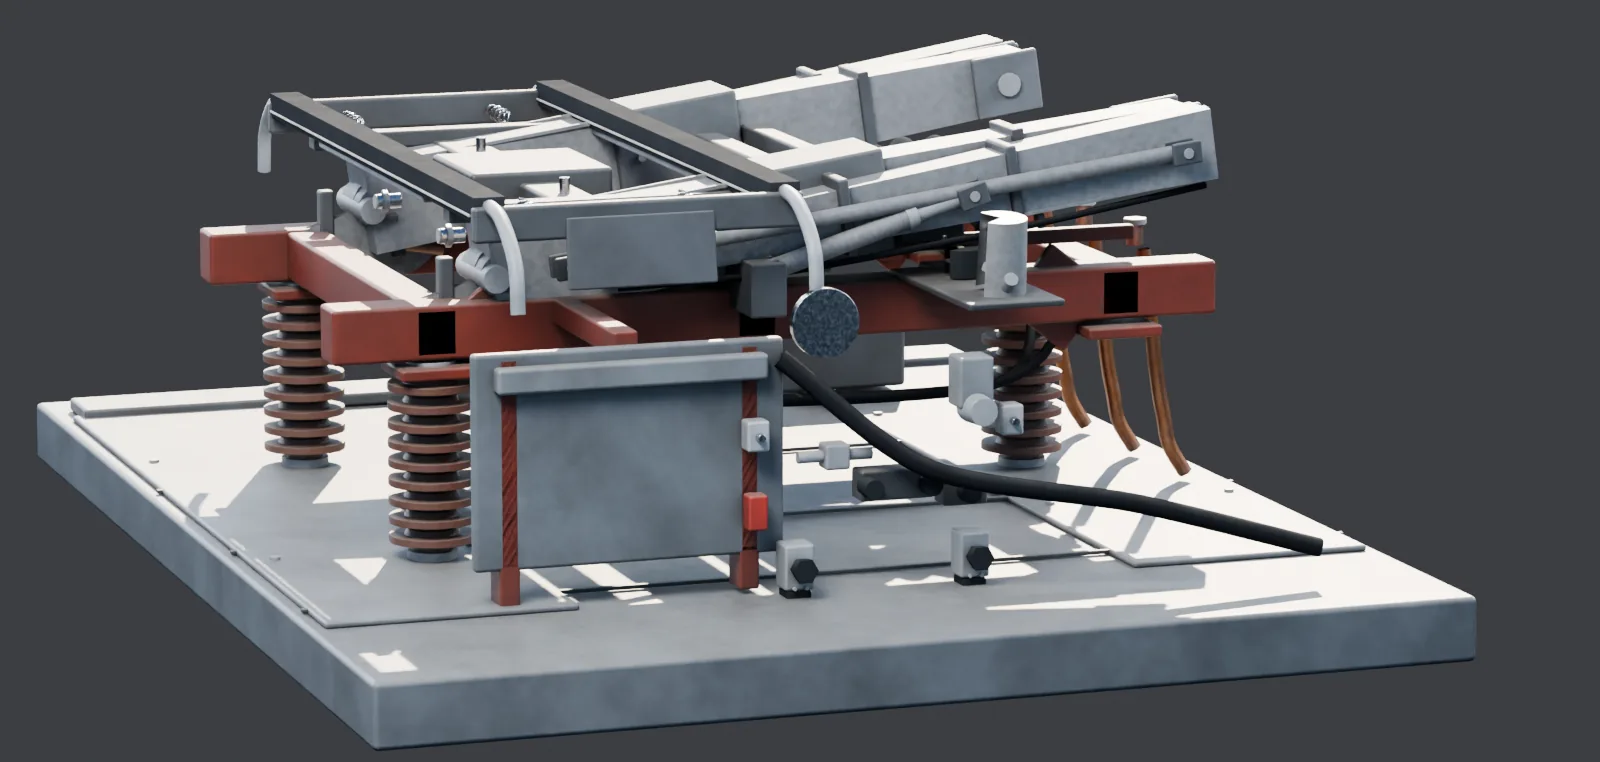
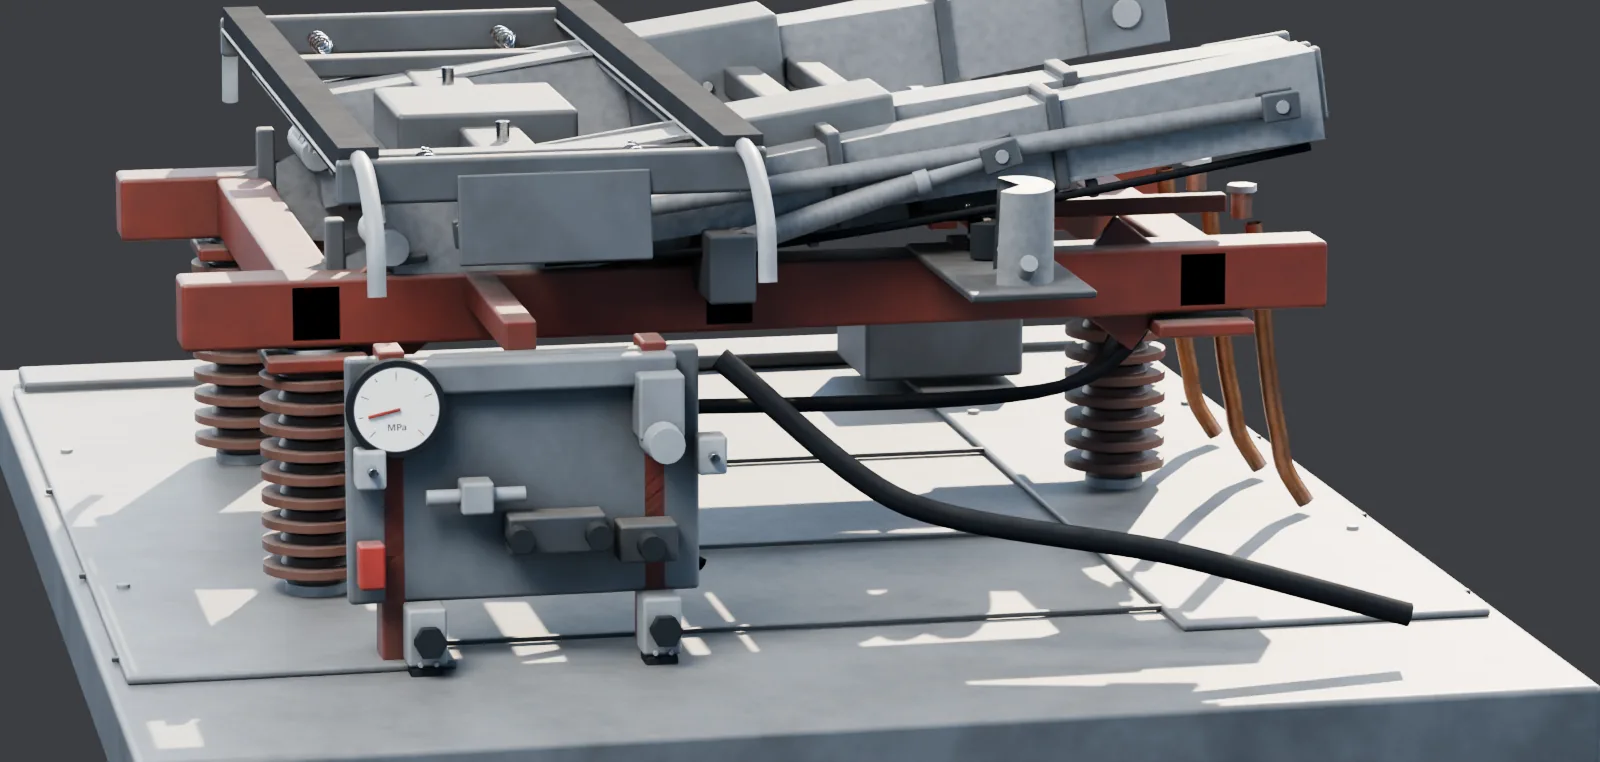
fix(a3d): 气阀板元件回到板面 + 压力表盘可读
## 上一轮的判断是错的
我写的是「元件全贴在朝内的面」。真因是**坐标**：
- 板 panelFace 的 z 中心 0.46、深 0.62 → z ∈ [0.15, 0.77]
- 11 个元件的 z 写的是 -0.30 ~ 0.22，**没加 panelZ** → 全悬在板旁边的空气里
- 两者只重叠 7cm。所以从任何角度看都只是「板边露几个小方块」。

## 修法：整组平移，不是逐个改坐标
  const panelRig = new Group()
  panelRig.position.z = panelZ + 0.02   // +0.02：左侧原本溢出 3cm
18 处 drive.add(...) 改成 panelRig.add(...)。支架 / 横撑 / 汇流排用绝对坐标，不动。
逐个加 0.46 只要漏一个，就又是一个悬空的件；整组平移是结构性的，漏不掉。

## 板收小，元件才「铺满」
板 0.62×0.42 → 0.54×0.38（11 件跨距是 z 0.52 / y 0.36，板大一圈就显空）。
立柱 ±0.24→±0.20，汇流排 0.54→0.46。

## 表盘「石纹」是两个独立原因
1. 多材质圆柱 [侧面, 顶盖, 底盖] 导出 glTF 时**按材质拆成多个 primitive**，
   圆盘面丢了贴图，渲染到的是镀铬侧面 → 改**单面 CircleGeometry**（一个材质一个面）。
2. materials.py（离线渲染）给所有材质混噪声，Base Color 一旦被替换，
   贴图被当作底色乘进去 → apply() 跳过 Base Color 已连接的材质。

修完：白底 + 8 道刻度 + 红色指针 + MPa 字样 + 黑色表圈，全部可读。

## 同步
几何只有一份，所以演示页的实时三维也一起受益（元件回到板上，不再飘在旁边）。

## 重渲与门禁
step1 / step2 / step3 三张（1600×762，32 采样）；webp 39.2 / 55.1 / 62.3 KB，
5 张合计 203.1KB。307 单测 / 30 次 a11y 0 违规 / vue-tsc 零错 /
首屏 CSS 3.92kB · JS 46.88kB / 内容指纹 819961e4 未变。

## 未做
板面仍有留白（元件集中中上部）。要彻底像真机那块「塞满 11 件」的板，
得把元件重排成两列三行——收益是观感，不是信息。

diff --git a/apps/electro-assist/web/src/figures/devices/pantograph.ts b/apps/electro-assist/web/src/figures/devices/pantograph.ts
@@ -30,6 +30,7 @@ import {
   CanvasTexture,
   CatmullRomCurve3,
   BoxGeometry,
+  CircleGeometry,
   CylinderGeometry,
   DoubleSide,
   EdgesGeometry,
@@ -572,16 +573,18 @@ export function buildPantograph(): DeviceRig {
   const panelX = 0.96
   const panelY = 0.28
   const panelZ = 0.46
-  const panelFace = roundedBox(0.03, 0.42, 0.62, paintedMaterial(0x6a7076), panelX, panelY, panelZ, 0.008)
+  /* 板从 0.62×0.42 收到 0.54×0.38：11 个元件的 z 跨距是 0.52、y 跨距 0.36，
+     板比元件大一圈时，画面里就是"一块空板上零星几个小方块"。 */
+  const panelFace = roundedBox(0.03, 0.38, 0.54, paintedMaterial(0x6a7076), panelX, panelY, panelZ, 0.008)
   panelFace.name = 'panto-panel-face'
   drive.add(panelFace)
   /* 支架：板不是浮在车顶上的——两根立柱落到车顶，一根横撑连回底架。 */
-  for (const z of [panelZ - 0.24, panelZ + 0.24]) {
+  for (const z of [panelZ - 0.20, panelZ + 0.20]) {
     drive.add(roundedBox(0.07, panelY + 0.2, 0.04, frameMat, panelX - 0.02, (panelY + 0.2) / 2, z, 0.005))
   }
   drive.add(roundedBox(0.42, 0.05, 0.05, frameMat, panelX - 0.22, DECK_Y + 0.03, panelZ, 0.006))
   // 汇流排：所有阀都挂在同一根气路上
-  drive.add(roundedBox(0.05, 0.05, 0.54, paintedMaterial(0x7c8288), panelX + 0.02, panelY + 0.16, panelZ, 0.008))
+  drive.add(roundedBox(0.05, 0.05, 0.46, paintedMaterial(0x7c8288), panelX + 0.02, panelY + 0.16, panelZ, 0.008))
 
   const coil = (x: number, y: number, z: number, c: number): Mesh => {
     const m = new Mesh(new CylinderGeometry(0.02, 0.02, 0.05, 14), paintedMaterial(c))
@@ -598,8 +601,18 @@ export function buildPantograph(): DeviceRig {
   const body = (w: number, h: number, d: number, x: number, y: number, z: number, c = 0x9aa0a6): Mesh =>
     roundedBox(w, h, d, paintedMaterial(c), x, y, z, 0.006)
 
+  /* 元件组：**必须整体沿 z 平移 panelZ**。
+     元件坐标是相对板面写的（z = -0.30 ~ +0.22），而板后来搬到了 panelZ = 0.46。
+     2026-11-11 宽幅重渲时发现：板在 z ∈ [0.15, 0.77]，元件在 [-0.30, 0.22]，
+     两者只重叠 7cm —— 也就是说 11 个阀门压力表全都**悬在板旁边的空气里**，
+     从任何角度看都只是"板边上露几个小方块"。这就是"气阀板看不到元件"的真正原因，
+     不是朝向问题。 */
+  const panelRig = new Group()
+  panelRig.position.z = panelZ + 0.02
+  drive.add(panelRig)
+
   // 1 过滤阀（带透明杯）
-  drive.add(body(0.07, 0.1, 0.07, panelX + 0.05, panelY + 0.11, -0.22, 0x8b9197))
+  panelRig.add(body(0.07, 0.1, 0.07, panelX + 0.05, panelY + 0.11, -0.22, 0x8b9197))
   const bowl = new Mesh(
     new CylinderGeometry(0.032, 0.028, 0.07, 16),
     new MeshStandardMaterial({
@@ -612,30 +625,30 @@ export function buildPantograph(): DeviceRig {
   )
   bowl.rotation.z = Math.PI / 2
   bowl.position.set(panelX + 0.09, panelY + 0.06, -0.22)
-  drive.add(bowl)
+  panelRig.add(bowl)
   // 2 两位五通电磁阀（阀体 + 两个线圈）
-  drive.add(body(0.06, 0.06, 0.15, panelX + 0.05, panelY - 0.08, -0.06, 0x3f444a))
-  drive.add(coil(panelX + 0.09, panelY - 0.08, -0.12, 0x2f3438))
-  drive.add(coil(panelX + 0.09, panelY - 0.08, 0.0, 0x2f3438))
+  panelRig.add(body(0.06, 0.06, 0.15, panelX + 0.05, panelY - 0.08, -0.06, 0x3f444a))
+  panelRig.add(coil(panelX + 0.09, panelY - 0.08, -0.12, 0x2f3438))
+  panelRig.add(coil(panelX + 0.09, panelY - 0.08, 0.0, 0x2f3438))
   // 3 / 5 精密调压阀（两只，带调节旋钮）
   for (const [z, y] of [
     [-0.22, 0.1],
     [0.14, 0.1],
   ] as const) {
-    drive.add(body(0.06, 0.09, 0.06, panelX + 0.05, y - 0.05, z, 0xb0b6bb))
-    drive.add(knob(panelX + 0.1, y - 0.05, z))
+    panelRig.add(body(0.06, 0.09, 0.06, panelX + 0.05, y - 0.05, z, 0xb0b6bb))
+    panelRig.add(knob(panelX + 0.1, y - 0.05, z))
   }
   // 4 / 11 压力开关（两只，小的方形盒，顶部两个端子）
   for (const [z, y] of [
     [-0.22, -0.02],
     [0.14, -0.02],
   ] as const) {
-    drive.add(body(0.055, 0.05, 0.05, panelX + 0.05, y, z, 0x2f3438))
+    panelRig.add(body(0.055, 0.05, 0.05, panelX + 0.05, y, z, 0x2f3438))
     for (const dz of [-0.012, 0.012]) {
       const t = new Mesh(new CylinderGeometry(0.004, 0.004, 0.012, 8), fitting)
       t.rotation.z = Math.PI / 2
       t.position.set(panelX + 0.08, y + 0.03, z + dz)
-      drive.add(t)
+      panelRig.add(t)
     }
   }
   // 6 梭阀（三通）
@@ -647,23 +660,23 @@ export function buildPantograph(): DeviceRig {
     b.position.set(panelX + 0.05, panelY - 0.02, 0.06 + dz)
     shuttle.add(b)
   }
-  drive.add(shuttle)
+  panelRig.add(shuttle)
   // 7 节流阀（两只单向调速，升/降各一）
   for (const z of [-0.3, 0.22]) {
-    drive.add(body(0.045, 0.06, 0.045, panelX + 0.05, panelY + 0.03, z, 0xb0b6bb))
+    panelRig.add(body(0.045, 0.06, 0.045, panelX + 0.05, panelY + 0.03, z, 0xb0b6bb))
     const screw = new Mesh(new CylinderGeometry(0.008, 0.008, 0.03, 8), chrome)
     screw.rotation.z = Math.PI / 2
     screw.position.set(panelX + 0.075, panelY + 0.03, z)
-    drive.add(screw)
+    panelRig.add(screw)
   }
   // 8 安全阀
-  drive.add(body(0.04, 0.07, 0.04, panelX + 0.05, panelY - 0.12, 0.22, 0xb23b32))
+  panelRig.add(body(0.04, 0.07, 0.04, panelX + 0.05, panelY - 0.12, 0.22, 0xb23b32))
   // 10 快排电磁阀 SA
-  drive.add(body(0.06, 0.06, 0.09, panelX + 0.05, panelY - 0.1, -0.2, 0x3f444a))
-  drive.add(coil(panelX + 0.09, panelY - 0.1, -0.2, 0x2f3438))
+  panelRig.add(body(0.06, 0.06, 0.09, panelX + 0.05, panelY - 0.1, -0.2, 0x3f444a))
+  panelRig.add(coil(panelX + 0.09, panelY - 0.1, -0.2, 0x2f3438))
 
   /* 9 压力表：表盘用画布画，刻度才看得清。 */
-  const gaugeR = 0.058
+  const gaugeR = 0.066
   const dialCanvas = document.createElement('canvas')
   dialCanvas.width = 256
   dialCanvas.height = 256
@@ -696,26 +709,31 @@ export function buildPantograph(): DeviceRig {
   dialTex.colorSpace = SRGBColorSpace
   dialTex.needsUpdate = true
   textures.push(dialTex)
-  /* 材质组顺序是 [侧面, 顶盖, 底盖]。表盘必须挂在顶盖上，
-     挂到索引 0 会把表盘卷在圆柱侧面上——第一版就是这样。 */
-  const dial = new Mesh(new CylinderGeometry(gaugeR, gaugeR, 0.012, 32), [
-    chromeMaterial(),
-    new MeshStandardMaterial({ color: 0xffffff, metalness: 0, roughness: 0.55, map: dialTex }),
-    chromeMaterial(),
-  ])
-  dial.rotation.z = deg(-90)
-  dial.position.set(panelX + 0.05, panelY + 0.24, 0.08)
-  drive.add(dial)
-  const bezel = new Mesh(new CylinderGeometry(gaugeR + 0.01, gaugeR + 0.01, 0.018, 28), chromeMaterial())
-  bezel.rotation.z = deg(-90)
-  bezel.position.copy(dial.position)
-  drive.add(bezel)
+  /* 表盘用**单面圆片**，不用「圆柱 + 三材质组」：
+     多材质网格导出 glTF 时会按材质拆成多个 primitive，实测圆盘面在导出后丢了贴图，
+     只剩镀铬侧面——表盘在渲染里变成一团石纹，刻度与 MPa 字样全无。
+     面片只有一个材质，导出无损。 */
+  const gaugeAt = new Vector3(panelX + 0.05, panelY + 0.12, 0.18)
+  const bezel = new Mesh(
+    new CylinderGeometry(gaugeR + 0.009, gaugeR + 0.009, 0.02, 28),
+    paintedMaterial(0x2a2e33),
+  )
+  bezel.rotation.z = deg(90)
+  bezel.position.copy(gaugeAt)
+  panelRig.add(bezel)
+  const dial = new Mesh(
+    new CircleGeometry(gaugeR, 32),
+    new MeshStandardMaterial({ color: 0xffffff, metalness: 0, roughness: 0.9, map: dialTex }),
+  )
+  dial.rotation.y = deg(90)
+  dial.position.copy(gaugeAt).setX(gaugeAt.x + 0.011)
+  panelRig.add(dial)
   const needlePivot = new Group()
-  needlePivot.position.set(panelX + 0.046, panelY + 0.24, 0.08)
+  needlePivot.position.set(gaugeAt.x + 0.014, gaugeAt.y, gaugeAt.z)
   needlePivot.add(
     roundedBox(0.003, gaugeR * 0.76, 0.005, paintedMaterial(0xb23b32), 0, gaugeR * 0.3, 0, 0.001),
   )
-  drive.add(needlePivot)
+  panelRig.add(needlePivot)
 
   /* 接近开关 ×2（升弓到位 / 落弓到位）。真机没有"到位指示灯"，状态由读数面板表达。 */
   const lampGroup = new Group()
